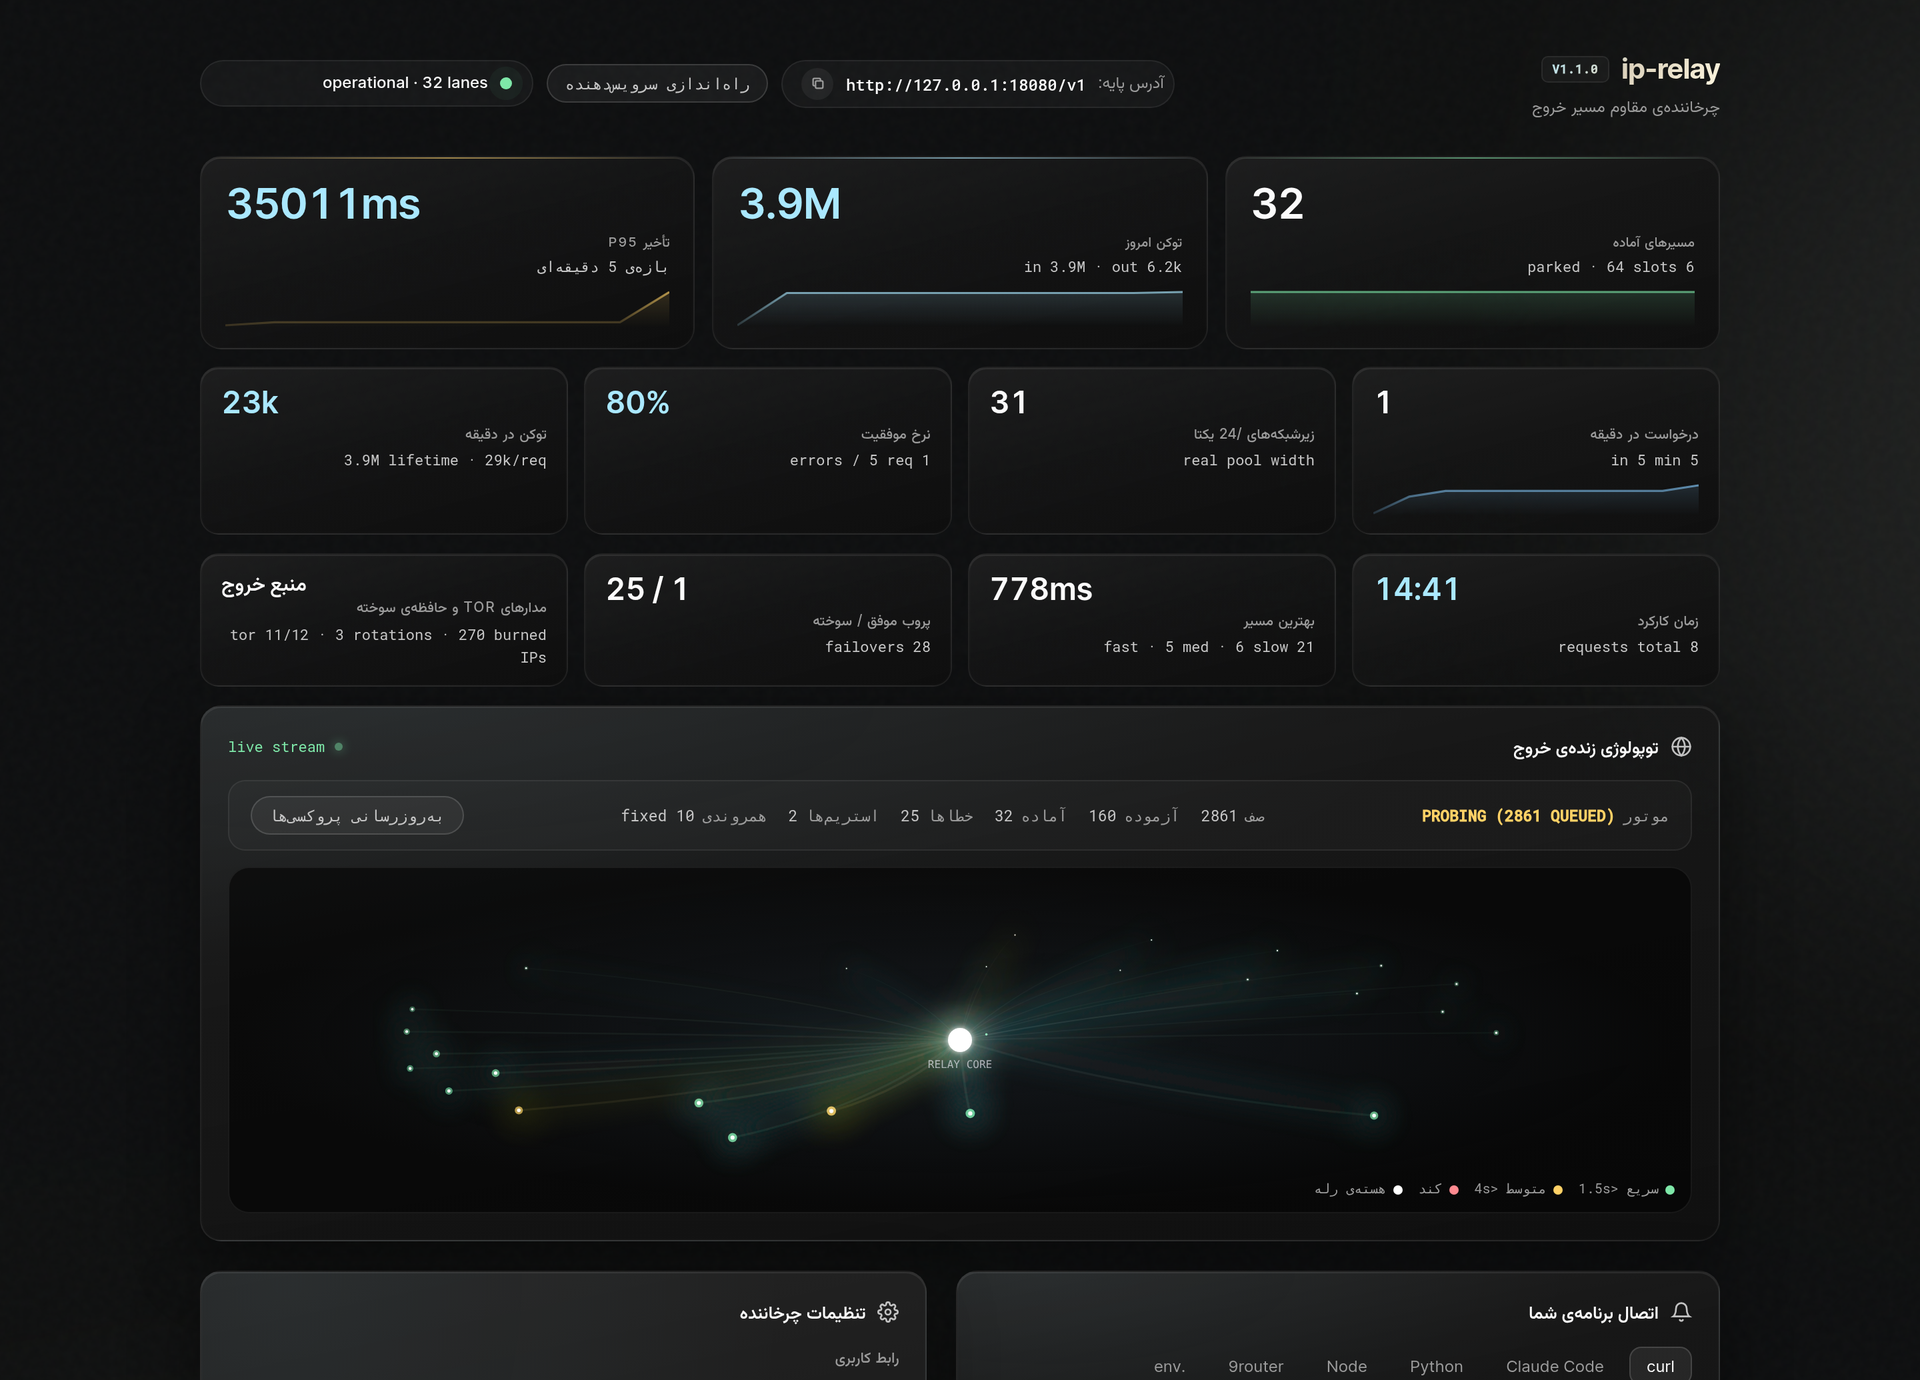
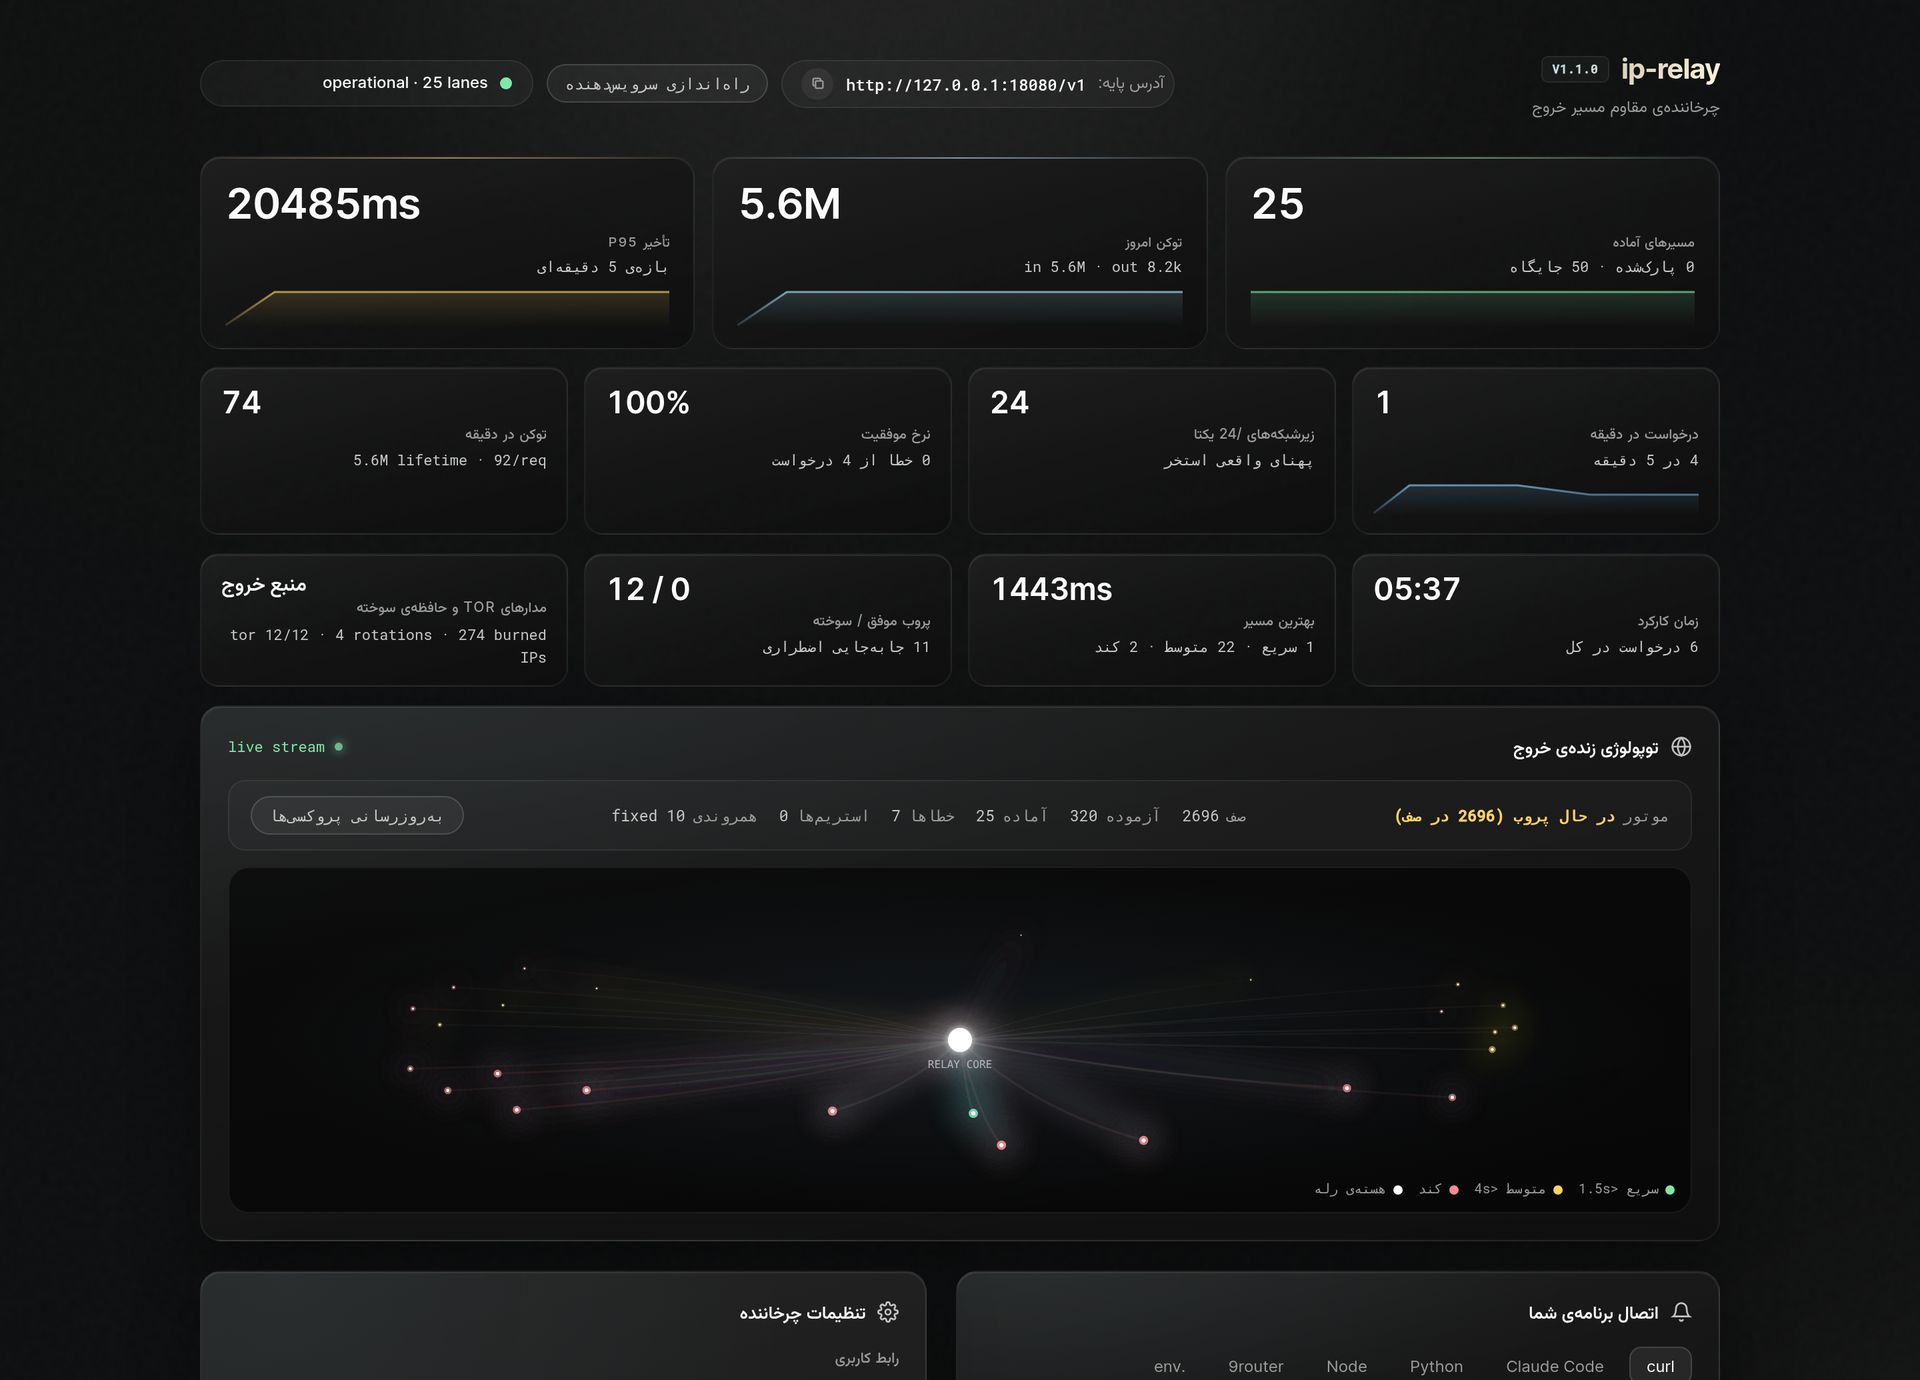
fix(i18n): translate the JS-written strings the poll loop kept rebuilding
The browser harness found three strings that reverted to English about 5 s after
switching to Persian: hdr.loading, m.realwidth, t.idle. A data-i18n attribute on
the markup is not enough when the render path overwrites textContent on every
telemetry poll — the poll wins. Those call sites now go through t().

Covers the KPI subtitles (parked/slots, concentrated/real pool width, req window),
the tier breakdown, the engine state line and the footer status.

Also fixes a real TDZ bug this surfaced: `const t = pool.tiers || {}` inside the
stats renderer shadowed the global t() translator for the entire function body,
so the new t('js.parked') calls above it threw "Cannot access 't' before
initialization" and the whole render aborted. Renamed to `tiers`; the same
shadowing in setFeed() and the two Bezier loops is renamed for the same reason.
Only a running browser catches this — the diff looks fine.

Harness: the leftover-English check now skips #baseUrlVal and bare URL/hostname
text, which must stay Latin (a translated hostname is a broken hostname).

201 strings, 0 lint errors. 198 tests pass. Both browser harnesses pass.
Screenshots regenerated with p95 populated (needed real traffic first).

diff --git a/dashboard.html b/dashboard.html
@@ -1665,9 +1665,11 @@ function onFetchError(e, ctx) {
 
 function setFeed(state, text) {
   const pill = document.getElementById('feedPill');
-  const t = document.getElementById('feedText');
+  // Not `t` — that identifier is the global translator; shadowing it inside any
+  // function that might later call t() is a latent TDZ error.
+  const label = document.getElementById('feedText');
   if (pill) pill.className = 'feed-pill' + (state === 'live' ? '' : ' ' + state);
-  if (t) t.textContent = text;
+  if (label) label.textContent = text;
 }
 
 /* ── formatting helpers ─────────────────────────────────────── */
@@ -2139,26 +2141,32 @@ function updateTelemetry(data) {
 
   const cap = pool.capacity ?? 0;
   const sub = document.getElementById('cWarmSub');
-  if (sub) sub.textContent = (pool.parked ?? 0) + ' parked · ' + cap + ' slots';
+  if (sub) sub.textContent = (pool.parked ?? 0) + ' ' + t('js.parked') + ' · ' + cap + ' ' + t('js.slots');
   const subs = document.getElementById('cSubnetsSub');
   if (subs) {
     const w = pool.warm ?? 0, n = pool.subnets ?? 0;
     subs.textContent = (w > 0 && n > 0 && w / n >= 2)
-      ? 'concentrated — ' + (w / n).toFixed(1) + ' lanes per /24'
-      : 'real pool width';
+      ? t('js.concentrated') + ' — ' + (w / n).toFixed(1) + ' ' + t('js.lanes_per_24')
+      : t('js.real_pool_width');
   }
   const rpmSub = document.getElementById('cRpmSub');
-  if (rpmSub) rpmSub.textContent = (m.requests ?? 0) + ' in ' + Math.round((m.window_sec || 300) / 60) + ' min';
+  if (rpmSub) rpmSub.textContent = (m.requests ?? 0) + ' ' + t('js.in_window') + ' '
+    + Math.round((m.window_sec || 300) / 60) + ' ' + t('js.min');
   const reqTotal = document.getElementById('cReqTotal');
-  if (reqTotal) reqTotal.textContent = (stats.requests ?? 0) + ' requests total';
+  if (reqTotal) reqTotal.textContent = (stats.requests ?? 0) + ' ' + t('js.requests_total');
   const failEl = document.getElementById('cFailovers');
-  if (failEl) failEl.textContent = (stats.failovers ?? 0) + ' failovers';
+  if (failEl) failEl.textContent = (stats.failovers ?? 0) + ' ' + t('js.failovers');
   const succSub = document.getElementById('cSuccessSub');
-  if (succSub) succSub.textContent = (m.errors ?? 0) + ' errors / ' + (m.requests ?? 0) + ' req';
+  if (succSub) succSub.textContent = (m.errors ?? 0) + ' ' + t('js.errors_of') + ' ' + (m.requests ?? 0) + ' ' + t('js.req');
 
-  const t = pool.tiers || {};
+  /* Named `tiers`, not `t` — a block-scoped `const t` here shadows the global
+     t() translator for the WHOLE function body, so the t('js.parked') calls
+     above threw "Cannot access 't' before initialization" (TDZ). The browser
+     harness caught it; a diff read would not have. */
+  const tiers = pool.tiers || {};
   const tiersEl = document.getElementById('cTiers');
-  if (tiersEl) tiersEl.textContent = (t.fast ?? 0) + ' fast · ' + (t.medium ?? 0) + ' med · ' + (t.slow ?? 0) + ' slow';
+  if (tiersEl) tiersEl.textContent = (tiers.fast ?? 0) + ' ' + t('js.fast') + ' · '
+    + (tiers.medium ?? 0) + ' ' + t('js.medium') + ' · ' + (tiers.slow ?? 0) + ' ' + t('js.slow');
 
   /* ── token meter (v1.1) ──────────────────────────────────────
      Request counts never answered "how much of the free tier did I spend".
@@ -2228,15 +2236,15 @@ function updateTelemetry(data) {
 
   const es = document.getElementById('engineState');
   if (es) {
-    if (quota.exhausted) { es.textContent = 'paused (quota)'; es.style.color = 'var(--bad)'; }
-    else if ((pool.queue ?? 0) > 0) { es.textContent = 'probing (' + pool.queue + ' queued)'; es.style.color = 'var(--warn)'; }
-    else if ((pool.warm ?? 0) >= poolTarget) { es.textContent = 'idle (pool warm)'; es.style.color = 'var(--ok)'; }
-    else { es.textContent = 'scraping feeds'; es.style.color = 'var(--info)'; }
+    if (quota.exhausted) { es.textContent = t('js.eng.paused_quota'); es.style.color = 'var(--bad)'; }
+    else if ((pool.queue ?? 0) > 0) { es.textContent = t('js.eng.probing') + ' (' + pool.queue + ' ' + t('js.eng.queued') + ')'; es.style.color = 'var(--warn)'; }
+    else if ((pool.warm ?? 0) >= poolTarget) { es.textContent = t('js.eng.idle_warm'); es.style.color = 'var(--ok)'; }
+    else { es.textContent = t('js.eng.scraping'); es.style.color = 'var(--info)'; }
   }
 
   const foot = document.getElementById('footStatus');
-  if (foot) foot.textContent = 'v' + (data.version || '') + ' · ' + (pool.warm ?? 0) + ' warm / '
-    + (pool.subnets ?? 0) + ' subnets · updated ' + new Date().toLocaleTimeString();
+  if (foot) foot.textContent = 'v' + (data.version || '') + ' · ' + (pool.warm ?? 0) + ' ' + t('js.foot.warm') + ' / '
+    + (pool.subnets ?? 0) + ' ' + t('js.foot.subnets') + ' · ' + t('js.foot.updated') + ' ' + new Date().toLocaleTimeString();
 
   // Announce meaningful pool changes once, not on every tick.
   const warmNow = pool.warm ?? 0;
@@ -2302,18 +2310,28 @@ const I18N = {
   "js.burn_off": "burn off",
   "js.burned_ips": "burned IPs",
   "js.cleared": "Log cleared",
+  "js.concentrated": "concentrated",
   "js.cooldown": "cooldown",
   "js.copied": "Copied to clipboard",
   "js.diag_refreshed": "Diagnostics refreshed",
   "js.discovering": "discovering routes…",
+  "js.eng.idle_warm": "idle (pool warm)",
+  "js.eng.paused_quota": "paused (quota)",
+  "js.eng.probing": "probing",
+  "js.eng.queued": "queued",
+  "js.eng.scraping": "scraping feeds",
   "js.errors_of": "errors /",
   "js.failed": "failed",
   "js.failovers": "failovers",
   "js.fast": "fast",
   "js.fix_invalid": "Fix the invalid fields before applying",
+  "js.foot.subnets": "subnets",
+  "js.foot.updated": "updated",
+  "js.foot.warm": "warm",
   "js.idle_warm": "idle (pool warm)",
   "js.in_prefix": "in",
   "js.in_window": "in",
+  "js.lanes_per_24": "lanes per /24",
   "js.lanes_suffix": "lanes",
   "js.lifetime": "lifetime",
   "js.loading": "Loading…",
@@ -2327,6 +2345,7 @@ const I18N = {
   "js.now": "now",
   "js.operational": "operational",
   "js.out_prefix": "out",
+  "js.parked": "parked",
   "js.paused_quota": "paused (quota)",
   "js.per_req": "/req",
   "js.polling_fallback": "polling fallback",
@@ -2336,6 +2355,7 @@ const I18N = {
   "js.proxies": "proxies",
   "js.queued": "queued",
   "js.quota_exhausted": "quota exhausted · retry in",
+  "js.real_pool_width": "real pool width",
   "js.refresh_started": "Proxy refresh started",
   "js.req": "req",
   "js.requests_total": "requests total",
@@ -2343,6 +2363,7 @@ const I18N = {
   "js.saving": "Saving…",
   "js.scraping": "scraping feeds",
   "js.settings_saved": "Settings applied",
+  "js.slots": "slots",
   "js.slow": "slow",
   "js.tor_off": "tor off",
   "js.tor_unreachable": "tor UNREACHABLE",
@@ -2492,18 +2513,28 @@ const I18N = {
   "js.burn_off": "حافظهی سوخته خاموش",
   "js.burned_ips": "IP سوخته",
   "js.cleared": "گزارش پاک شد",
+  "js.concentrated": "متمرکز",
   "js.cooldown": "استراحت",
   "js.copied": "در بریدهدان رونوشت شد",
   "js.diag_refreshed": "عیبیابی بهروز شد",
   "js.discovering": "کشف مسیرها…",
+  "js.eng.idle_warm": "بیکار (استخر آماده)",
+  "js.eng.paused_quota": "متوقف (سهمیه)",
+  "js.eng.probing": "در حال پروب",
+  "js.eng.queued": "در صف",
+  "js.eng.scraping": "در حال جمعآوری از منابع",
   "js.errors_of": "خطا از",
   "js.failed": "ناموفق",
   "js.failovers": "جابهجایی اضطراری",
   "js.fast": "سریع",
   "js.fix_invalid": "پیش از اعمال، فیلدهای نامعتبر را درست کنید",
+  "js.foot.subnets": "زیرشبکه",
+  "js.foot.updated": "بهروزرسانی",
+  "js.foot.warm": "آماده",
   "js.idle_warm": "بیکار (استخر آماده)",
   "js.in_prefix": "ورودی",
   "js.in_window": "در",
+  "js.lanes_per_24": "مسیر در هر /24",
   "js.lanes_suffix": "مسیر",
   "js.lifetime": "از ابتدا",
   "js.loading": "در حال بارگذاری…",
@@ -2517,6 +2548,7 @@ const I18N = {
   "js.now": "اکنون",
   "js.operational": "عملیاتی",
   "js.out_prefix": "خروجی",
+  "js.parked": "پارکشده",
   "js.paused_quota": "متوقف (سهمیه)",
   "js.per_req": "بهازای هر درخواست",
   "js.polling_fallback": "بازگشت به نظرسنجی دورهای",
@@ -2526,6 +2558,7 @@ const I18N = {
   "js.proxies": "پروکسی",
   "js.queued": "در صف",
   "js.quota_exhausted": "سهمیه تمام شد · تلاش مجدد در",
+  "js.real_pool_width": "پهنای واقعی استخر",
   "js.refresh_started": "بهروزرسانی پروکسیها آغاز شد",
   "js.req": "درخواست",
   "js.requests_total": "درخواست در کل",
@@ -2533,6 +2566,7 @@ const I18N = {
   "js.saving": "در حال ذخیره…",
   "js.scraping": "خواندن فهرستها",
   "js.settings_saved": "تنظیمات اعمال شد",
+  "js.slots": "جایگاه",
   "js.slow": "کند",
   "js.tor_off": "Tor خاموش",
   "js.tor_unreachable": "Tor دستنیافتنی",
@@ -3295,9 +3329,9 @@ function animNetworkGraph(ts) {
     // Particles are part of the liquid: they read as droplets travelling the
     // neck and being absorbed, instead of dots sliding over a line.
     netParticles.forEach(p => {
-      const t = p.progress;
-      const px = (1 - t) * (1 - t) * cx + 2 * (1 - t) * t * p.cpX + t * t * p.target.x;
-      const py = (1 - t) * (1 - t) * cy + 2 * (1 - t) * t * p.cpY + t * t * p.target.y;
+      const bt = p.progress;   // bezier parameter, not the t() translator
+      const px = (1 - bt) * (1 - bt) * cx + 2 * (1 - bt) * bt * p.cpX + bt * bt * p.target.x;
+      const py = (1 - bt) * (1 - bt) * cy + 2 * (1 - bt) * bt * p.cpY + bt * bt * p.target.y;
       const scale = (p.target.z + 1.8) / 2.8;
       gooCtx.fillStyle = p.err ? 'rgba(255,138,144,0.95)' : hexA(p.target.color, 0.95);
       gooCtx.beginPath();
@@ -3377,9 +3411,9 @@ function animNetworkGraph(ts) {
   for (let i = netParticles.length - 1; i >= 0; i--) {
     const p = netParticles[i];
     p.progress += p.speed * dt;
-    const t = p.progress;
-    const px = (1 - t) * (1 - t) * cx + 2 * (1 - t) * t * p.cpX + t * t * p.target.x;
-    const py = (1 - t) * (1 - t) * cy + 2 * (1 - t) * t * p.cpY + t * t * p.target.y;
+    const bt = p.progress;   // bezier parameter, not the t() translator
+    const px = (1 - bt) * (1 - bt) * cx + 2 * (1 - bt) * bt * p.cpX + bt * bt * p.target.x;
+    const py = (1 - bt) * (1 - bt) * cy + 2 * (1 - bt) * bt * p.cpY + bt * bt * p.target.y;
     const scale = (p.target.z + 1.8) / 2.8;
     const col = p.err ? '#ff8a90' : p.target.color;
     if (!goo) { netCtx.shadowBlur = 8 * scale; netCtx.shadowColor = col; }

diff --git a/tools/i18n_strings.py b/tools/i18n_strings.py
@@ -283,4 +283,22 @@ JS_STRINGS: list[tuple[str, str, str]] = [
     ("js.in_window", "in", "در"),
     ("js.min", "min", "دقیقه"),
     ("js.polling_fallback", "polling fallback", "بازگشت به نظرسنجی دورهای"),
+
+    # These three overwrite an element that ALSO carries data-i18n. The attribute
+    # alone is not enough: the render path rewrites textContent on every poll, so
+    # the English rebuilt itself ~5s after a language switch. Verified by the
+    # browser harness (hdr.loading, m.realwidth, t.idle were the last holdouts).
+    ("js.parked", "parked", "پارکشده"),
+    ("js.slots", "slots", "جایگاه"),
+    ("js.concentrated", "concentrated", "متمرکز"),
+    ("js.lanes_per_24", "lanes per /24", "مسیر در هر /24"),
+    ("js.real_pool_width", "real pool width", "پهنای واقعی استخر"),
+    ("js.eng.paused_quota", "paused (quota)", "متوقف (سهمیه)"),
+    ("js.eng.probing", "probing", "در حال پروب"),
+    ("js.eng.queued", "queued", "در صف"),
+    ("js.eng.idle_warm", "idle (pool warm)", "بیکار (استخر آماده)"),
+    ("js.eng.scraping", "scraping feeds", "در حال جمعآوری از منابع"),
+    ("js.foot.warm", "warm", "آماده"),
+    ("js.foot.subnets", "subnets", "زیرشبکه"),
+    ("js.foot.updated", "updated", "بهروزرسانی"),
 ]

diff --git a/tools/verify_dashboard_v11.py b/tools/verify_dashboard_v11.py
@@ -115,6 +115,12 @@ async def main() -> int:
           const bad = [];
           document.querySelectorAll('[data-i18n]').forEach(e => {
             const t = e.textContent.trim();
+            // Skip content that SHOULD stay Latin: the base URL, IPs, hostnames
+            // and monospace telemetry. #baseUrlVal starts life as a translated
+            // placeholder and is then overwritten with the relay's own URL —
+            // asserting Persian there would demand a translated hostname.
+            if (e.id === 'baseUrlVal') return;
+            if (/^[\\w.:\\/-]+$/.test(t)) return;
             if (/^[\\x00-\\x7F]+$/.test(t) && /[A-Za-z]{4}/.test(t))
               bad.push(e.getAttribute('data-i18n'));
           });
